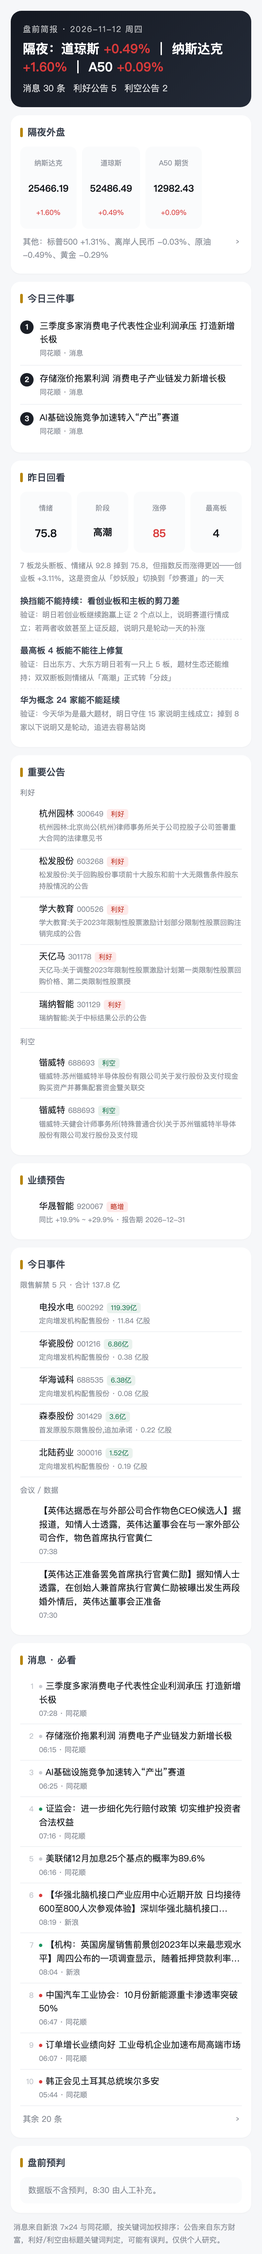
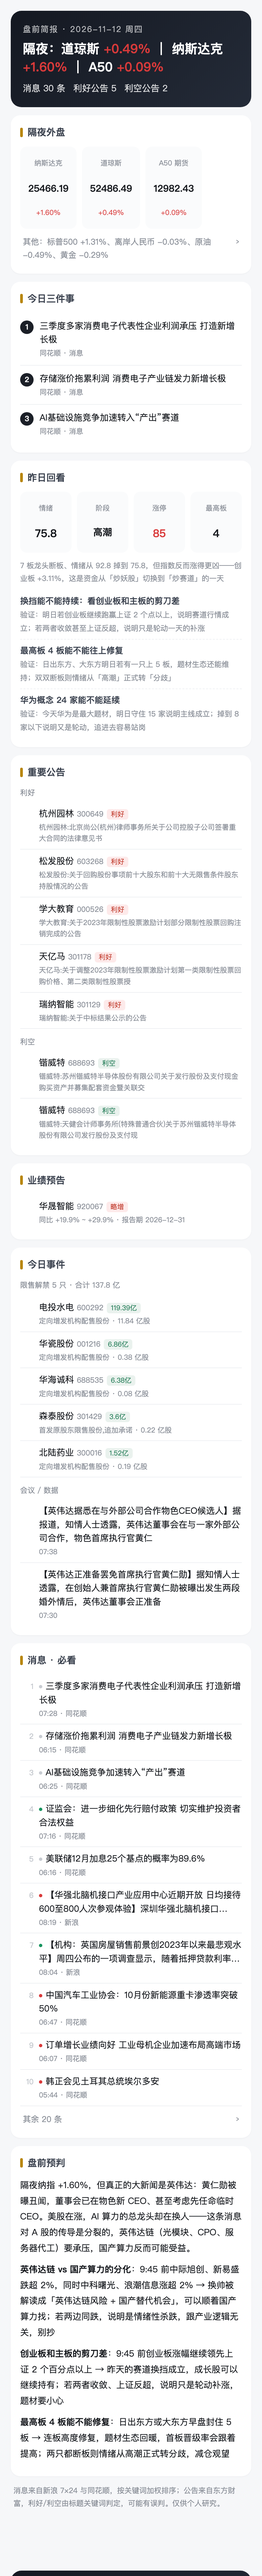
report: 2026-11-11

diff --git a/pre/2026-11-12/2026-11-12-盘前.html b/pre/2026-11-12/2026-11-12-盘前.html
@@ -57,4 +57,4 @@ padding:9px 16px;font-size:12.5px;max-width:560px;margin:0 auto}
 .nav a{color:#8a8f98;text-decoration:none;white-space:nowrap}
 .nav a.on{color:#1b1f27;font-weight:700}
 .nav a.home{color:#b8860b;font-weight:600}
-</style><link rel="manifest" href="/a-share-review/manifest.webmanifest"><meta name="theme-color" content="#1b1f27"><meta name="apple-mobile-web-app-capable" content="yes"><meta name="apple-mobile-web-app-status-bar-style" content="black-translucent"><meta name="apple-mobile-web-app-title" content="A股复盘"><link rel="apple-touch-icon" href="/a-share-review/icon-192.png"></head><body><div class="nav"><a class="home" href="../../index.html">⌂ 首页</a><a class="on" href="../../pre/index.html">盘前简报</a></div><div class="wrap"><div class="hero"><div class="d">盘前简报 · 2026-11-12 周四</div><h1>隔夜：道琼斯 <b class="up">+0.49%</b> ｜ 纳斯达克 <b class="up">+1.60%</b> ｜ A50 <b class="up">+0.09%</b></h1><div class="sum"><span>消息 30 条</span><span>利好公告 5</span><span>利空公告 2</span></div></div><div class="card"><h2>隔夜外盘</h2><div class="ov"><div><div class="n">纳斯达克</div><div class="v">25466.19</div><div class="p up">+1.60%</div></div><div><div class="n">道琼斯</div><div class="v">52486.49</div><div class="p up">+0.49%</div></div><div><div class="n">A50 期货</div><div class="v">12982.43</div><div class="p up">+0.09%</div></div></div><details class="more"><summary><span>其他：标普500 +1.31%、离岸人民币 -0.03%、原油 -0.49%、黄金 -0.29%</span><span class="arw">›</span></summary><div class="ov" style="margin-top:8px"><div><div class="n">标普500</div><div class="v">7619.38</div><div class="p up">+1.31%</div></div><div><div class="n">离岸人民币</div><div class="v">6.67</div><div class="p down">-0.03%</div></div><div><div class="n">原油</div><div class="v">86.11</div><div class="p down">-0.49%</div></div><div><div class="n">黄金</div><div class="v">3988.98</div><div class="p down">-0.29%</div></div></div></details></div><div class="card"><h2>今日三件事</h2><div class="t3"><div class="n">1</div><div><div class="t">三季度多家消费电子代表性企业利润承压 打造新增长极</div><div class="s">同花顺 · 消息</div></div></div><div class="t3"><div class="n">2</div><div><div class="t">存储涨价拖累利润 消费电子产业链发力新增长极</div><div class="s">同花顺 · 消息</div></div></div><div class="t3"><div class="n">3</div><div><div class="t">AI基础设施竞争加速转入“产出”赛道</div><div class="s">同花顺 · 消息</div></div></div></div><div class="card"><h2>昨日回看</h2><div class="kv"><div><div class="n">情绪</div><div class="v">75.8</div></div><div><div class="n">阶段</div><div class="v" style="font-size:14px">高潮</div></div><div><div class="n">涨停</div><div class="v up">85</div></div><div><div class="n">最高板</div><div class="v">4</div></div></div><div class="note" style="margin-bottom:8px">7 板龙头断板、情绪从 92.8 掉到 75.8，但指数反而涨得更凶——创业板 +3.11%，这是资金从「炒妖股」切换到「炒赛道」的一天</div><div class="watch"><b>换挡能不能持续：看创业板和主板的剪刀差</b><br><span class="note">验证：明日若创业板继续跑赢上证 2 个点以上，说明赛道行情成立；若两者收敛甚至上证反超，说明只是轮动一天的补涨</span></div><div class="watch"><b>最高板 4 板能不能往上修复</b><br><span class="note">验证：日出东方、大东方明日若有一只上 5 板，题材生态还能维持；双双断板则情绪从「高潮」正式转「分歧」</span></div><div class="watch"><b>华为概念 24 家能不能延续</b><br><span class="note">验证：今天华为是最大题材，明日守住 15 家说明主线成立；掉到 8 家以下说明又是轮动，追进去容易站岗</span></div></div><div class="card"><h2>重要公告</h2><div class="note" style="margin-bottom:4px">利好</div><div class="item"><div class="no"></div><div class="b"><div class="t">杭州园林 <span class="mut" style="font-size:11px">300649</span><span class="tag tag-good">利好</span></div><div class="m">杭州园林:北京尚公(杭州)律师事务所关于公司控股子公司签署重大合同的法律意见书</div></div></div><div class="item"><div class="no"></div><div class="b"><div class="t">松发股份 <span class="mut" style="font-size:11px">603268</span><span class="tag tag-good">利好</span></div><div class="m">松发股份:关于回购股份事项前十大股东和前十大无限售条件股东持股情况的公告</div></div></div><div class="item"><div class="no"></div><div class="b"><div class="t">学大教育 <span class="mut" style="font-size:11px">000526</span><span class="tag tag-good">利好</span></div><div class="m">学大教育:关于2023年限制性股票激励计划部分限制性股票回购注销完成的公告</div></div></div><div class="item"><div class="no"></div><div class="b"><div class="t">天亿马 <span class="mut" style="font-size:11px">301178</span><span class="tag tag-good">利好</span></div><div class="m">天亿马:关于调整2023年限制性股票激励计划第一类限制性股票回购价格、第二类限制性股票授</div></div></div><div class="item"><div class="no"></div><div class="b"><div class="t">瑞纳智能 <span class="mut" style="font-size:11px">301129</span><span class="tag tag-good">利好</span></div><div class="m">瑞纳智能:关于中标结果公示的公告</div></div></div><div class="note" style="margin:10px 0 4px">利空</div><div class="item"><div class="no"></div><div class="b"><div class="t">锴威特 <span class="mut" style="font-size:11px">688693</span><span class="tag tag-bad">利空</span></div><div class="m">锴威特:苏州锴威特半导体股份有限公司关于发行股份及支付现金购买资产并募集配套资金暨关联交</div></div></div><div class="item"><div class="no"></div><div class="b"><div class="t">锴威特 <span class="mut" style="font-size:11px">688693</span><span class="tag tag-bad">利空</span></div><div class="m">锴威特:天健会计师事务所(特殊普通合伙)关于苏州锴威特半导体股份有限公司发行股份及支付现</div></div></div></div><div class="card"><h2>业绩预告</h2><div class="item"><div class="no"></div><div class="b"><div class="t">华晟智能 <span class="mut" style="font-size:11px">920067</span><span class="tag tag-good">略增</span></div><div class="m">同比 +19.9% ~ +29.9% · 报告期 2026-12-31</div></div></div></div><div class="card"><h2>今日事件</h2><div class="note" style="margin-bottom:6px">限售解禁 5 只 · 合计 137.8 亿</div><div class="item"><div class="no"></div><div class="b"><div class="t">电投水电 <span class="mut" style="font-size:11px">600292</span><span class="tag tag-bad">119.39亿</span></div><div class="m">定向增发机构配售股份 · 11.84 亿股</div></div></div><div class="item"><div class="no"></div><div class="b"><div class="t">华瓷股份 <span class="mut" style="font-size:11px">001216</span><span class="tag tag-bad">6.86亿</span></div><div class="m">定向增发机构配售股份 · 0.38 亿股</div></div></div><div class="item"><div class="no"></div><div class="b"><div class="t">华海诚科 <span class="mut" style="font-size:11px">688535</span><span class="tag tag-bad">6.38亿</span></div><div class="m">定向增发机构配售股份 · 0.08 亿股</div></div></div><div class="item"><div class="no"></div><div class="b"><div class="t">森泰股份 <span class="mut" style="font-size:11px">301429</span><span class="tag tag-bad">3.6亿</span></div><div class="m">首发原股东限售股份,追加承诺 · 0.22 亿股</div></div></div><div class="item"><div class="no"></div><div class="b"><div class="t">北陆药业 <span class="mut" style="font-size:11px">300016</span><span class="tag tag-bad">1.52亿</span></div><div class="m">定向增发机构配售股份 · 0.19 亿股</div></div></div><div class="note" style="margin:10px 0 4px">会议 / 数据</div><div class="item"><div class="no"></div><div class="b"><div class="t">【英伟达据悉在与外部公司合作物色CEO候选人】据报道，知情人士透露，英伟达董事会在与一家外部公司合作，物色首席执行官黄仁</div><div class="m">07:38</div></div></div><div class="item"><div class="no"></div><div class="b"><div class="t">【英伟达正准备罢免首席执行官黄仁勋】据知情人士透露，在创始人兼首席执行官黄仁勋被曝出发生两段婚外情后，英伟达董事会正准备</div><div class="m">07:30</div></div></div></div><div class="card"><h2>消息 · 必看</h2><div class="item"><div class="no">1</div><div class="b"><div class="t"><span class="dot n"></span>三季度多家消费电子代表性企业利润承压 打造新增长极</div><div class="m">07:28 · 同花顺</div></div></div><div class="item"><div class="no">2</div><div class="b"><div class="t"><span class="dot n"></span>存储涨价拖累利润 消费电子产业链发力新增长极</div><div class="m">06:15 · 同花顺</div></div></div><div class="item"><div class="no">3</div><div class="b"><div class="t"><span class="dot n"></span>AI基础设施竞争加速转入“产出”赛道</div><div class="m">06:25 · 同花顺</div></div></div><div class="item"><div class="no">4</div><div class="b"><div class="t"><span class="dot b2"></span>证监会：进一步细化先行赔付政策 切实维护投资者合法权益</div><div class="m">07:16 · 同花顺</div></div></div><div class="item"><div class="no">5</div><div class="b"><div class="t"><span class="dot n"></span>美联储12月加息25个基点的概率为89.6%</div><div class="m">06:16 · 同花顺</div></div></div><div class="item"><div class="no">6</div><div class="b"><div class="t"><span class="dot g"></span>【华强北脑机接口产业应用中心近期开放 日均接待600至800人次参观体验】深圳华强北脑机接口…</div><div class="m">08:19 · 新浪</div></div></div><div class="item"><div class="no">7</div><div class="b"><div class="t"><span class="dot b2"></span>【机构：英国房屋销售前景创2023年以来最悲观水平】周四公布的一项调查显示，随着抵押贷款利率…</div><div class="m">08:04 · 新浪</div></div></div><div class="item"><div class="no">8</div><div class="b"><div class="t"><span class="dot g"></span>中国汽车工业协会：10月份新能源重卡渗透率突破50%</div><div class="m">06:47 · 同花顺</div></div></div><div class="item"><div class="no">9</div><div class="b"><div class="t"><span class="dot g"></span>订单增长业绩向好 工业母机企业加速布局高端市场</div><div class="m">06:07 · 同花顺</div></div></div><div class="item"><div class="no">10</div><div class="b"><div class="t"><span class="dot g"></span>韩正会见土耳其总统埃尔多安</div><div class="m">05:44 · 同花顺</div></div></div><details class="more"><summary><span>其余 20 条</span><span class="arw">›</span></summary><div class="item"><div class="no">11</div><div class="b"><div class="t"><span class="dot g"></span>【英伟达正与外部机构合作物色新的首席执行官】据知情人士透露，在英伟达首席执行官黄仁勋被曝出多…</div><div class="m">07:50 · 新浪</div></div></div><div class="item"><div class="no">12</div><div class="b"><div class="t"><span class="dot g"></span>英伟达正在考虑任命临时首席执行官，然后再进行更广泛的人选物色</div><div class="m">07:41 · 同花顺</div></div></div><div class="item"><div class="no">13</div><div class="b"><div class="t"><span class="dot g"></span>【英伟达据悉在与外部公司合作物色CEO候选人】据报道，知情人士透露，英伟达董事会在与一家外部…</div><div class="m">07:38 · 新浪</div></div></div><div class="item"><div class="no">14</div><div class="b"><div class="t"><span class="dot n"></span>日本日经指数回吐涨幅，最新下跌0.2%。AI相关股票下跌，揖斐电和爱德万测试股价下跌，之前英…</div><div class="m">08:14 · 新浪</div></div></div><div class="item"><div class="no">15</div><div class="b"><div class="t"><span class="dot n"></span>【英伟达正准备罢免首席执行官黄仁勋】据知情人士透露，在创始人兼首席执行官黄仁勋被曝出发生两段…</div><div class="m">07:30 · 新浪</div></div></div><div class="item"><div class="no">16</div><div class="b"><div class="t"><span class="dot b2"></span>日产汽车股价下跌3.0%，此前第二季度录得净亏损。</div><div class="m">08:06 · 新浪</div></div></div><div class="item"><div class="no">17</div><div class="b"><div class="t"><span class="dot g"></span>【耐世特：董事会批准最高6000万美元股份回购计划】耐世特11月12日公告，董事会已于11月…</div><div class="m">07:23 · 新浪</div></div></div><div class="item"><div class="no">18</div><div class="b"><div class="t"><span class="dot g"></span>韩正出席应对气候变化南南合作高级别论坛并致辞</div><div class="m">05:54 · 同花顺</div></div></div><div class="item"><div class="no">19</div><div class="b"><div class="t"><span class="dot n"></span>【AI相关股票盘后下挫 英伟达据报计划罢免黄仁勋】AI相关股票周三盘后下挫。媒体报道称，英伟…</div><div class="m">07:59 · 新浪</div></div></div><div class="item"><div class="no">20</div><div class="b"><div class="t"><span class="dot n"></span>工信部发布关于公开征求《半导体集成电路 融合视觉传感器测试方法》等46项推荐性国家标准计划项…</div><div class="m">08:18 · 新浪</div></div></div><div class="item"><div class="no">21</div><div class="b"><div class="t"><span class="dot n"></span>【中信证券：国产算力边际向上，聚焦IDC、连接器、交换机低估龙头】中信证券研报认为，国产算力…</div><div class="m">08:12 · 新浪</div></div></div><div class="item"><div class="no">22</div><div class="b"><div class="t"><span class="dot n"></span>【中信建投：三重逻辑驱动下 相关战略金属商品价格有望持续受益】中信建投证券发布战略金属行业2…</div><div class="m">08:06 · 新浪</div></div></div><div class="item"><div class="no">23</div><div class="b"><div class="t"><span class="dot n"></span>【中泰证券：医药产业链景气延续 AI4S有望推动估值持续抬升】中泰证券发布研报称，2026年…</div><div class="m">07:57 · 新浪</div></div></div><div class="item"><div class="no">24</div><div class="b"><div class="t"><span class="dot n"></span>京东今年双11售出超5000万件AI产品</div><div class="m">07:51 · 同花顺</div></div></div><div class="item"><div class="no">25</div><div class="b"><div class="t"><span class="dot n"></span>【Meta基础设施主管与工程联席主管将于2027年离职】当地时间11月11日，据报道，Met…</div><div class="m">07:46 · 新浪</div></div></div><div class="item"><div class="no">26</div><div class="b"><div class="t"><span class="dot n"></span>【CoreWeave计划通过投资级贷款筹资至少40亿美元】人工智能算力供应商CoreWeav…</div><div class="m">07:43 · 新浪</div></div></div><div class="item"><div class="no">27</div><div class="b"><div class="t"><span class="dot n"></span>【百亿私募逆势加仓 称AI长期发展趋势未改】市场震荡之际，百亿私募仍在逆势加仓。截至10月底…</div><div class="m">07:42 · 新浪</div></div></div><div class="item"><div class="no">28</div><div class="b"><div class="t"><span class="dot n"></span>【11月券商调研热度升温 青睐电子、机械设备等行业】券商研究所迎来调研忙碌期。数据显示，11…</div><div class="m">07:28 · 新浪</div></div></div><div class="item"><div class="no">29</div><div class="b"><div class="t"><span class="dot n"></span>【光通信行业“砍单”传闻不断 有上市公司回应称“近期市场并没有不利变化”】作为AI赛道主线之…</div><div class="m">07:24 · 新浪</div></div></div><div class="item"><div class="no">30</div><div class="b"><div class="t"><span class="dot n"></span>AI加速渗透证券行业 数字化转型进入应用阶段</div><div class="m">06:56 · 同花顺</div></div></div></details></div><div class="card"><h2>盘前预判</h2><div class="empty">数据版不含预判，8:30 由人工补充。</div></div><div class="note" style="padding:0 4px">消息来自新浪 7×24 与同花顺，按关键词加权排序；公告来自东方财富，利好/利空由标题关键词判定，可能有误判。仅供个人研究。</div></div></body></html>
+</style><link rel="manifest" href="/a-share-review/manifest.webmanifest"><meta name="theme-color" content="#1b1f27"><meta name="apple-mobile-web-app-capable" content="yes"><meta name="apple-mobile-web-app-status-bar-style" content="black-translucent"><meta name="apple-mobile-web-app-title" content="A股复盘"><link rel="apple-touch-icon" href="/a-share-review/icon-192.png"></head><body><div class="nav"><a class="home" href="../../index.html">⌂ 首页</a><a class="on" href="../../pre/index.html">盘前简报</a></div><div class="wrap"><div class="hero"><div class="d">盘前简报 · 2026-11-12 周四</div><h1>隔夜：道琼斯 <b class="up">+0.49%</b> ｜ 纳斯达克 <b class="up">+1.60%</b> ｜ A50 <b class="up">+0.09%</b></h1><div class="sum"><span>消息 30 条</span><span>利好公告 5</span><span>利空公告 2</span></div></div><div class="card"><h2>隔夜外盘</h2><div class="ov"><div><div class="n">纳斯达克</div><div class="v">25466.19</div><div class="p up">+1.60%</div></div><div><div class="n">道琼斯</div><div class="v">52486.49</div><div class="p up">+0.49%</div></div><div><div class="n">A50 期货</div><div class="v">12982.43</div><div class="p up">+0.09%</div></div></div><details class="more"><summary><span>其他：标普500 +1.31%、离岸人民币 -0.03%、原油 -0.49%、黄金 -0.29%</span><span class="arw">›</span></summary><div class="ov" style="margin-top:8px"><div><div class="n">标普500</div><div class="v">7619.38</div><div class="p up">+1.31%</div></div><div><div class="n">离岸人民币</div><div class="v">6.67</div><div class="p down">-0.03%</div></div><div><div class="n">原油</div><div class="v">86.11</div><div class="p down">-0.49%</div></div><div><div class="n">黄金</div><div class="v">3988.98</div><div class="p down">-0.29%</div></div></div></details></div><div class="card"><h2>今日三件事</h2><div class="t3"><div class="n">1</div><div><div class="t">三季度多家消费电子代表性企业利润承压 打造新增长极</div><div class="s">同花顺 · 消息</div></div></div><div class="t3"><div class="n">2</div><div><div class="t">存储涨价拖累利润 消费电子产业链发力新增长极</div><div class="s">同花顺 · 消息</div></div></div><div class="t3"><div class="n">3</div><div><div class="t">AI基础设施竞争加速转入“产出”赛道</div><div class="s">同花顺 · 消息</div></div></div></div><div class="card"><h2>昨日回看</h2><div class="kv"><div><div class="n">情绪</div><div class="v">75.8</div></div><div><div class="n">阶段</div><div class="v" style="font-size:14px">高潮</div></div><div><div class="n">涨停</div><div class="v up">85</div></div><div><div class="n">最高板</div><div class="v">4</div></div></div><div class="note" style="margin-bottom:8px">7 板龙头断板、情绪从 92.8 掉到 75.8，但指数反而涨得更凶——创业板 +3.11%，这是资金从「炒妖股」切换到「炒赛道」的一天</div><div class="watch"><b>换挡能不能持续：看创业板和主板的剪刀差</b><br><span class="note">验证：明日若创业板继续跑赢上证 2 个点以上，说明赛道行情成立；若两者收敛甚至上证反超，说明只是轮动一天的补涨</span></div><div class="watch"><b>最高板 4 板能不能往上修复</b><br><span class="note">验证：日出东方、大东方明日若有一只上 5 板，题材生态还能维持；双双断板则情绪从「高潮」正式转「分歧」</span></div><div class="watch"><b>华为概念 24 家能不能延续</b><br><span class="note">验证：今天华为是最大题材，明日守住 15 家说明主线成立；掉到 8 家以下说明又是轮动，追进去容易站岗</span></div></div><div class="card"><h2>重要公告</h2><div class="note" style="margin-bottom:4px">利好</div><div class="item"><div class="no"></div><div class="b"><div class="t">杭州园林 <span class="mut" style="font-size:11px">300649</span><span class="tag tag-good">利好</span></div><div class="m">杭州园林:北京尚公(杭州)律师事务所关于公司控股子公司签署重大合同的法律意见书</div></div></div><div class="item"><div class="no"></div><div class="b"><div class="t">松发股份 <span class="mut" style="font-size:11px">603268</span><span class="tag tag-good">利好</span></div><div class="m">松发股份:关于回购股份事项前十大股东和前十大无限售条件股东持股情况的公告</div></div></div><div class="item"><div class="no"></div><div class="b"><div class="t">学大教育 <span class="mut" style="font-size:11px">000526</span><span class="tag tag-good">利好</span></div><div class="m">学大教育:关于2023年限制性股票激励计划部分限制性股票回购注销完成的公告</div></div></div><div class="item"><div class="no"></div><div class="b"><div class="t">天亿马 <span class="mut" style="font-size:11px">301178</span><span class="tag tag-good">利好</span></div><div class="m">天亿马:关于调整2023年限制性股票激励计划第一类限制性股票回购价格、第二类限制性股票授</div></div></div><div class="item"><div class="no"></div><div class="b"><div class="t">瑞纳智能 <span class="mut" style="font-size:11px">301129</span><span class="tag tag-good">利好</span></div><div class="m">瑞纳智能:关于中标结果公示的公告</div></div></div><div class="note" style="margin:10px 0 4px">利空</div><div class="item"><div class="no"></div><div class="b"><div class="t">锴威特 <span class="mut" style="font-size:11px">688693</span><span class="tag tag-bad">利空</span></div><div class="m">锴威特:苏州锴威特半导体股份有限公司关于发行股份及支付现金购买资产并募集配套资金暨关联交</div></div></div><div class="item"><div class="no"></div><div class="b"><div class="t">锴威特 <span class="mut" style="font-size:11px">688693</span><span class="tag tag-bad">利空</span></div><div class="m">锴威特:天健会计师事务所(特殊普通合伙)关于苏州锴威特半导体股份有限公司发行股份及支付现</div></div></div></div><div class="card"><h2>业绩预告</h2><div class="item"><div class="no"></div><div class="b"><div class="t">华晟智能 <span class="mut" style="font-size:11px">920067</span><span class="tag tag-good">略增</span></div><div class="m">同比 +19.9% ~ +29.9% · 报告期 2026-12-31</div></div></div></div><div class="card"><h2>今日事件</h2><div class="note" style="margin-bottom:6px">限售解禁 5 只 · 合计 137.8 亿</div><div class="item"><div class="no"></div><div class="b"><div class="t">电投水电 <span class="mut" style="font-size:11px">600292</span><span class="tag tag-bad">119.39亿</span></div><div class="m">定向增发机构配售股份 · 11.84 亿股</div></div></div><div class="item"><div class="no"></div><div class="b"><div class="t">华瓷股份 <span class="mut" style="font-size:11px">001216</span><span class="tag tag-bad">6.86亿</span></div><div class="m">定向增发机构配售股份 · 0.38 亿股</div></div></div><div class="item"><div class="no"></div><div class="b"><div class="t">华海诚科 <span class="mut" style="font-size:11px">688535</span><span class="tag tag-bad">6.38亿</span></div><div class="m">定向增发机构配售股份 · 0.08 亿股</div></div></div><div class="item"><div class="no"></div><div class="b"><div class="t">森泰股份 <span class="mut" style="font-size:11px">301429</span><span class="tag tag-bad">3.6亿</span></div><div class="m">首发原股东限售股份,追加承诺 · 0.22 亿股</div></div></div><div class="item"><div class="no"></div><div class="b"><div class="t">北陆药业 <span class="mut" style="font-size:11px">300016</span><span class="tag tag-bad">1.52亿</span></div><div class="m">定向增发机构配售股份 · 0.19 亿股</div></div></div><div class="note" style="margin:10px 0 4px">会议 / 数据</div><div class="item"><div class="no"></div><div class="b"><div class="t">【英伟达据悉在与外部公司合作物色CEO候选人】据报道，知情人士透露，英伟达董事会在与一家外部公司合作，物色首席执行官黄仁</div><div class="m">07:38</div></div></div><div class="item"><div class="no"></div><div class="b"><div class="t">【英伟达正准备罢免首席执行官黄仁勋】据知情人士透露，在创始人兼首席执行官黄仁勋被曝出发生两段婚外情后，英伟达董事会正准备</div><div class="m">07:30</div></div></div></div><div class="card"><h2>消息 · 必看</h2><div class="item"><div class="no">1</div><div class="b"><div class="t"><span class="dot n"></span>三季度多家消费电子代表性企业利润承压 打造新增长极</div><div class="m">07:28 · 同花顺</div></div></div><div class="item"><div class="no">2</div><div class="b"><div class="t"><span class="dot n"></span>存储涨价拖累利润 消费电子产业链发力新增长极</div><div class="m">06:15 · 同花顺</div></div></div><div class="item"><div class="no">3</div><div class="b"><div class="t"><span class="dot n"></span>AI基础设施竞争加速转入“产出”赛道</div><div class="m">06:25 · 同花顺</div></div></div><div class="item"><div class="no">4</div><div class="b"><div class="t"><span class="dot b2"></span>证监会：进一步细化先行赔付政策 切实维护投资者合法权益</div><div class="m">07:16 · 同花顺</div></div></div><div class="item"><div class="no">5</div><div class="b"><div class="t"><span class="dot n"></span>美联储12月加息25个基点的概率为89.6%</div><div class="m">06:16 · 同花顺</div></div></div><div class="item"><div class="no">6</div><div class="b"><div class="t"><span class="dot g"></span>【华强北脑机接口产业应用中心近期开放 日均接待600至800人次参观体验】深圳华强北脑机接口…</div><div class="m">08:19 · 新浪</div></div></div><div class="item"><div class="no">7</div><div class="b"><div class="t"><span class="dot b2"></span>【机构：英国房屋销售前景创2023年以来最悲观水平】周四公布的一项调查显示，随着抵押贷款利率…</div><div class="m">08:04 · 新浪</div></div></div><div class="item"><div class="no">8</div><div class="b"><div class="t"><span class="dot g"></span>中国汽车工业协会：10月份新能源重卡渗透率突破50%</div><div class="m">06:47 · 同花顺</div></div></div><div class="item"><div class="no">9</div><div class="b"><div class="t"><span class="dot g"></span>订单增长业绩向好 工业母机企业加速布局高端市场</div><div class="m">06:07 · 同花顺</div></div></div><div class="item"><div class="no">10</div><div class="b"><div class="t"><span class="dot g"></span>韩正会见土耳其总统埃尔多安</div><div class="m">05:44 · 同花顺</div></div></div><details class="more"><summary><span>其余 20 条</span><span class="arw">›</span></summary><div class="item"><div class="no">11</div><div class="b"><div class="t"><span class="dot g"></span>【英伟达正与外部机构合作物色新的首席执行官】据知情人士透露，在英伟达首席执行官黄仁勋被曝出多…</div><div class="m">07:50 · 新浪</div></div></div><div class="item"><div class="no">12</div><div class="b"><div class="t"><span class="dot g"></span>英伟达正在考虑任命临时首席执行官，然后再进行更广泛的人选物色</div><div class="m">07:41 · 同花顺</div></div></div><div class="item"><div class="no">13</div><div class="b"><div class="t"><span class="dot g"></span>【英伟达据悉在与外部公司合作物色CEO候选人】据报道，知情人士透露，英伟达董事会在与一家外部…</div><div class="m">07:38 · 新浪</div></div></div><div class="item"><div class="no">14</div><div class="b"><div class="t"><span class="dot n"></span>日本日经指数回吐涨幅，最新下跌0.2%。AI相关股票下跌，揖斐电和爱德万测试股价下跌，之前英…</div><div class="m">08:14 · 新浪</div></div></div><div class="item"><div class="no">15</div><div class="b"><div class="t"><span class="dot n"></span>【英伟达正准备罢免首席执行官黄仁勋】据知情人士透露，在创始人兼首席执行官黄仁勋被曝出发生两段…</div><div class="m">07:30 · 新浪</div></div></div><div class="item"><div class="no">16</div><div class="b"><div class="t"><span class="dot b2"></span>日产汽车股价下跌3.0%，此前第二季度录得净亏损。</div><div class="m">08:06 · 新浪</div></div></div><div class="item"><div class="no">17</div><div class="b"><div class="t"><span class="dot g"></span>【耐世特：董事会批准最高6000万美元股份回购计划】耐世特11月12日公告，董事会已于11月…</div><div class="m">07:23 · 新浪</div></div></div><div class="item"><div class="no">18</div><div class="b"><div class="t"><span class="dot g"></span>韩正出席应对气候变化南南合作高级别论坛并致辞</div><div class="m">05:54 · 同花顺</div></div></div><div class="item"><div class="no">19</div><div class="b"><div class="t"><span class="dot n"></span>【AI相关股票盘后下挫 英伟达据报计划罢免黄仁勋】AI相关股票周三盘后下挫。媒体报道称，英伟…</div><div class="m">07:59 · 新浪</div></div></div><div class="item"><div class="no">20</div><div class="b"><div class="t"><span class="dot n"></span>工信部发布关于公开征求《半导体集成电路 融合视觉传感器测试方法》等46项推荐性国家标准计划项…</div><div class="m">08:18 · 新浪</div></div></div><div class="item"><div class="no">21</div><div class="b"><div class="t"><span class="dot n"></span>【中信证券：国产算力边际向上，聚焦IDC、连接器、交换机低估龙头】中信证券研报认为，国产算力…</div><div class="m">08:12 · 新浪</div></div></div><div class="item"><div class="no">22</div><div class="b"><div class="t"><span class="dot n"></span>【中信建投：三重逻辑驱动下 相关战略金属商品价格有望持续受益】中信建投证券发布战略金属行业2…</div><div class="m">08:06 · 新浪</div></div></div><div class="item"><div class="no">23</div><div class="b"><div class="t"><span class="dot n"></span>【中泰证券：医药产业链景气延续 AI4S有望推动估值持续抬升】中泰证券发布研报称，2026年…</div><div class="m">07:57 · 新浪</div></div></div><div class="item"><div class="no">24</div><div class="b"><div class="t"><span class="dot n"></span>京东今年双11售出超5000万件AI产品</div><div class="m">07:51 · 同花顺</div></div></div><div class="item"><div class="no">25</div><div class="b"><div class="t"><span class="dot n"></span>【Meta基础设施主管与工程联席主管将于2027年离职】当地时间11月11日，据报道，Met…</div><div class="m">07:46 · 新浪</div></div></div><div class="item"><div class="no">26</div><div class="b"><div class="t"><span class="dot n"></span>【CoreWeave计划通过投资级贷款筹资至少40亿美元】人工智能算力供应商CoreWeav…</div><div class="m">07:43 · 新浪</div></div></div><div class="item"><div class="no">27</div><div class="b"><div class="t"><span class="dot n"></span>【百亿私募逆势加仓 称AI长期发展趋势未改】市场震荡之际，百亿私募仍在逆势加仓。截至10月底…</div><div class="m">07:42 · 新浪</div></div></div><div class="item"><div class="no">28</div><div class="b"><div class="t"><span class="dot n"></span>【11月券商调研热度升温 青睐电子、机械设备等行业】券商研究所迎来调研忙碌期。数据显示，11…</div><div class="m">07:28 · 新浪</div></div></div><div class="item"><div class="no">29</div><div class="b"><div class="t"><span class="dot n"></span>【光通信行业“砍单”传闻不断 有上市公司回应称“近期市场并没有不利变化”】作为AI赛道主线之…</div><div class="m">07:24 · 新浪</div></div></div><div class="item"><div class="no">30</div><div class="b"><div class="t"><span class="dot n"></span>AI加速渗透证券行业 数字化转型进入应用阶段</div><div class="m">06:56 · 同花顺</div></div></div></details></div><div class="card"><h2>盘前预判</h2><div class="jd"><p>隔夜纳指 +1.60%，但真正的大新闻是英伟达：黄仁勋被曝丑闻，董事会已在物色新 CEO、甚至考虑先任命临时 CEO。美股在涨，AI 算力的总龙头却在换人——这条消息对 A 股的传导是分裂的，英伟达链（光模块、CPO、服务器代工）要承压，国产算力反而可能受益。</p><p><b>英伟达链 vs 国产算力的分化</b>：9:45 前中际旭创、新易盛跌超 2%，同时中科曙光、浪潮信息涨超 2% → 换帅被解读成「英伟达链风险 + 国产替代机会」，可以顺着国产算力找；若两边同跌，说明是情绪性杀跌，跟产业逻辑无关，别抄</p><p><b>创业板和主板的剪刀差</b>：9:45 前创业板涨幅继续领先上证 2 个百分点以上 → 昨天的赛道换挡成立，成长股可以继续持有；若两者收敛、上证反超，说明只是轮动补涨，题材要小心</p><p><b>最高板 4 板能不能修复</b>：日出东方或大东方早盘封住 5 板 → 连板高度修复，题材生态回暖，首板晋级率会跟着提高；两只都断板则情绪从高潮正式转分歧，减仓观望</p></div></div><div class="note" style="padding:0 4px">消息来自新浪 7×24 与同花顺，按关键词加权排序；公告来自东方财富，利好/利空由标题关键词判定，可能有误判。仅供个人研究。</div></div></body></html>

diff --git a/pre/index.html b/pre/index.html
@@ -47,6 +47,6 @@ padding-bottom:env(safe-area-inset-bottom)}
 .tabbar a.on::after{content:"";display:block;width:18px;height:2.5px;border-radius:2px;background:var(--gold);margin:5px auto 0}
 </style><link rel="manifest" href="/a-share-review/manifest.webmanifest"><meta name="theme-color" content="#1b1f27"><meta name="apple-mobile-web-app-capable" content="yes"><meta name="apple-mobile-web-app-status-bar-style" content="black-translucent"><meta name="apple-mobile-web-app-title" content="A股复盘"><link rel="apple-touch-icon" href="/a-share-review/icon-192.png"></head><body><div class="wrap">
 <div class="head"><h1>盘前简报</h1><div class="sub">共 9 篇 · 交易日 08:20</div></div>
-<a class="hero" href="2026-11-12/2026-11-12-盘前.html?v=1794442809"><div class="ht">最新盘前 · 2026-11-12</div><div class="hrow"><div><div class="hn">纳指</div><div class="hv up">+1.60%</div></div><div><div class="hn">道指</div><div class="hv up">+0.49%</div></div><div><div class="hn">A50</div><div class="hv up">+0.09%</div></div><div><div class="hn">消息</div><div class="hv">30</div></div></div><div class="hb">点开看完整盘前简报 →</div></a>
-<details class="month" open><summary><span><b>2026-11</b>　9 篇</span><span class="arw">›</span></summary><div class="list"><a class="row" href="2026-11-12/2026-11-12-盘前.html?v=1794442809"><div class="rl"><div class="rd">11-12</div><div class="rw">周四</div></div><div class="rm"><span class="k up">纳指 +1.60%</span><span class="k2">30 条消息</span></div></a><a class="row" href="2026-11-11/2026-11-11-盘前.html?v=1794357010"><div class="rl"><div class="rd">11-11</div><div class="rw">周三</div></div><div class="rm"><span class="k down">纳指 -0.74%</span><span class="k2">30 条消息</span><span class="tag2">预判</span></div></a><a class="row" href="2026-11-10/2026-11-10-盘前.html?v=1794270612"><div class="rl"><div class="rd">11-10</div><div class="rw">周二</div></div><div class="rm"><span class="k up">纳指 +2.74%</span><span class="k2">30 条消息</span><span class="tag2">预判</span></div></a><a class="row" href="2026-11-09/2026-11-09-盘前.html?v=1794194683"><div class="rl"><div class="rd">11-09</div><div class="rw">周一</div></div><div class="rm"><span class="k up">纳指 +1.09%</span><span class="k2">30 条消息</span><span class="tag2">预判</span></div></a><a class="row" href="2026-11-06/2026-11-06-盘前.html?v=1793928167"><div class="rl"><div class="rd">11-06</div><div class="rw">周五</div></div><div class="rm"><span class="k down">纳指 -5.52%</span><span class="k2">30 条消息</span><span class="tag2">预判</span></div></a><a class="row" href="2026-11-05/2026-11-05-盘前.html?v=1793928167"><div class="rl"><div class="rd">11-05</div><div class="rw">周四</div></div><div class="rm"><span class="k up">纳指 +1.44%</span><span class="k2">18 条消息</span><span class="tag2">预判</span></div></a><a class="row" href="2026-11-04/2026-11-04-盘前.html?v=1793928167"><div class="rl"><div class="rd">11-04</div><div class="rw">周三</div></div><div class="rm"><span class="k up">纳指 +0.83%</span><span class="k2">30 条消息</span><span class="tag2">预判</span></div></a><a class="row" href="2026-11-03/2026-11-03-盘前.html?v=1793928166"><div class="rl"><div class="rd">11-03</div><div class="rw">周二</div></div><div class="rm"><span class="k down">纳指 -1.07%</span><span class="k2">30 条消息</span><span class="tag2">预判</span></div></a><a class="row" href="2026-11-02/2026-11-02-盘前.html?v=1793928166"><div class="rl"><div class="rd">11-02</div><div class="rw">周一</div></div><div class="rm"><span class="k down">纳指 -2.86%</span><span class="k2">30 条消息</span></div></a></div></details>
+<a class="hero" href="2026-11-12/2026-11-12-盘前.html?v=1794443410"><div class="ht">最新盘前 · 2026-11-12</div><div class="hrow"><div><div class="hn">纳指</div><div class="hv up">+1.60%</div></div><div><div class="hn">道指</div><div class="hv up">+0.49%</div></div><div><div class="hn">A50</div><div class="hv up">+0.09%</div></div><div><div class="hn">消息</div><div class="hv">30</div></div></div><div class="hj">隔夜纳指 +1.60%，但真正的大新闻是英伟达：黄仁勋被曝丑闻，董事会已在物色新 CEO、甚至考虑先任命临时 CEO。美</div><div class="hb">点开看完整盘前简报 →</div></a>
+<details class="month" open><summary><span><b>2026-11</b>　9 篇</span><span class="arw">›</span></summary><div class="list"><a class="row" href="2026-11-12/2026-11-12-盘前.html?v=1794443410"><div class="rl"><div class="rd">11-12</div><div class="rw">周四</div></div><div class="rm"><span class="k up">纳指 +1.60%</span><span class="k2">30 条消息</span><span class="tag2">预判</span></div></a><a class="row" href="2026-11-11/2026-11-11-盘前.html?v=1794357010"><div class="rl"><div class="rd">11-11</div><div class="rw">周三</div></div><div class="rm"><span class="k down">纳指 -0.74%</span><span class="k2">30 条消息</span><span class="tag2">预判</span></div></a><a class="row" href="2026-11-10/2026-11-10-盘前.html?v=1794270612"><div class="rl"><div class="rd">11-10</div><div class="rw">周二</div></div><div class="rm"><span class="k up">纳指 +2.74%</span><span class="k2">30 条消息</span><span class="tag2">预判</span></div></a><a class="row" href="2026-11-09/2026-11-09-盘前.html?v=1794194683"><div class="rl"><div class="rd">11-09</div><div class="rw">周一</div></div><div class="rm"><span class="k up">纳指 +1.09%</span><span class="k2">30 条消息</span><span class="tag2">预判</span></div></a><a class="row" href="2026-11-06/2026-11-06-盘前.html?v=1793928167"><div class="rl"><div class="rd">11-06</div><div class="rw">周五</div></div><div class="rm"><span class="k down">纳指 -5.52%</span><span class="k2">30 条消息</span><span class="tag2">预判</span></div></a><a class="row" href="2026-11-05/2026-11-05-盘前.html?v=1793928167"><div class="rl"><div class="rd">11-05</div><div class="rw">周四</div></div><div class="rm"><span class="k up">纳指 +1.44%</span><span class="k2">18 条消息</span><span class="tag2">预判</span></div></a><a class="row" href="2026-11-04/2026-11-04-盘前.html?v=1793928167"><div class="rl"><div class="rd">11-04</div><div class="rw">周三</div></div><div class="rm"><span class="k up">纳指 +0.83%</span><span class="k2">30 条消息</span><span class="tag2">预判</span></div></a><a class="row" href="2026-11-03/2026-11-03-盘前.html?v=1793928166"><div class="rl"><div class="rd">11-03</div><div class="rw">周二</div></div><div class="rm"><span class="k down">纳指 -1.07%</span><span class="k2">30 条消息</span><span class="tag2">预判</span></div></a><a class="row" href="2026-11-02/2026-11-02-盘前.html?v=1793928166"><div class="rl"><div class="rd">11-02</div><div class="rw">周一</div></div><div class="rm"><span class="k down">纳指 -2.86%</span><span class="k2">30 条消息</span></div></a></div></details>
 </div><div class="tabbar"><a href="../index.html">每日复盘</a><a href="index.html" class="on">盘前简报</a><a href="../earn/index.html">业绩追踪</a></div></body></html>

diff --git a/index.html b/index.html
@@ -172,7 +172,7 @@ padding-bottom:env(safe-area-inset-bottom)}
   </div>
 </a></div></details>
 <div class="foot">数据与判断仅供个人研究，不构成投资建议<br>
-生成于 2026-11-12 08:20</div>
+生成于 2026-11-12 08:30</div>
 <div class="tabbar"><a href="index.html" class="on">每日复盘</a><a href="pre/index.html">盘前简报</a><a href="earn/index.html">业绩追踪</a></div>
 </div>
 <script>

diff --git a/pre/2026-11-12/2026-11-12-盘前.md b/pre/2026-11-12/2026-11-12-盘前.md
@@ -90,4 +90,8 @@
 
 ## 盘前预判
 
-> 8:30 由人工补充（数据版不含预判）。
+隔夜纳指 +1.60%，但真正的大新闻是英伟达：黄仁勋被曝丑闻，董事会已在物色新 CEO、甚至考虑先任命临时 CEO。美股在涨，AI 算力的总龙头却在换人——这条消息对 A 股的传导是分裂的，英伟达链（光模块、CPO、服务器代工）要承压，国产算力反而可能受益。
+
+- **英伟达链 vs 国产算力的分化**：9:45 前中际旭创、新易盛跌超 2%，同时中科曙光、浪潮信息涨超 2% → 换帅被解读成「英伟达链风险 + 国产替代机会」，可以顺着国产算力找；若两边同跌，说明是情绪性杀跌，跟产业逻辑无关，别抄
+- **创业板和主板的剪刀差**：9:45 前创业板涨幅继续领先上证 2 个百分点以上 → 昨天的赛道换挡成立，成长股可以继续持有；若两者收敛、上证反超，说明只是轮动补涨，题材要小心
+- **最高板 4 板能不能修复**：日出东方或大东方早盘封住 5 板 → 连板高度修复，题材生态回暖，首板晋级率会跟着提高；两只都断板则情绪从高潮正式转分歧，减仓观望
